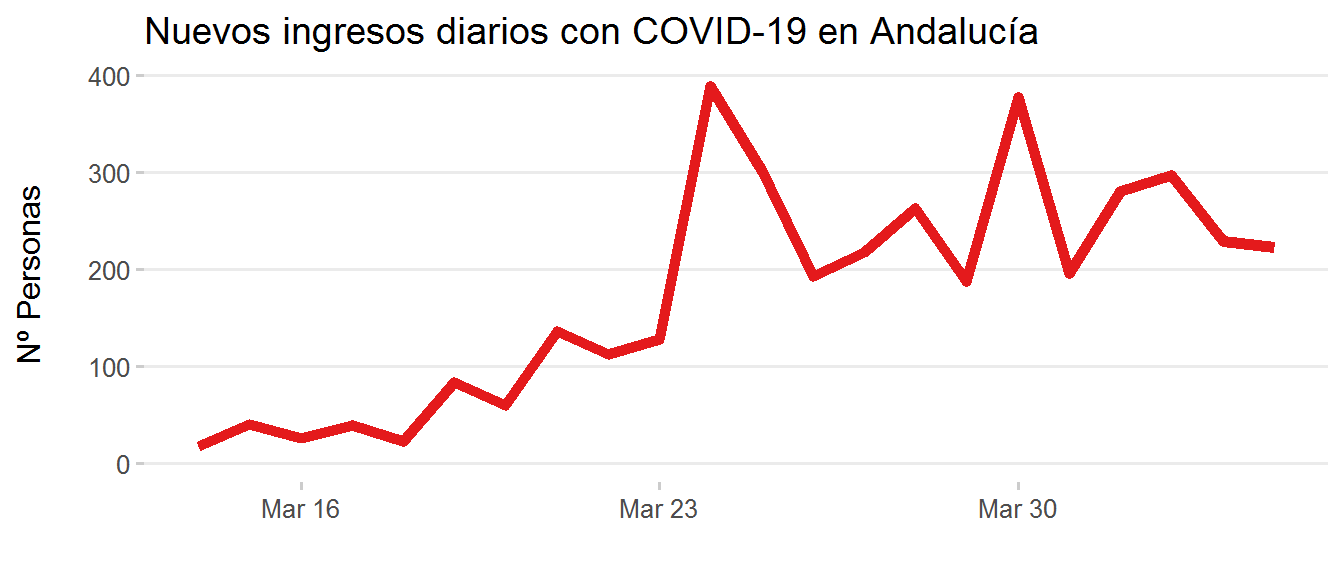
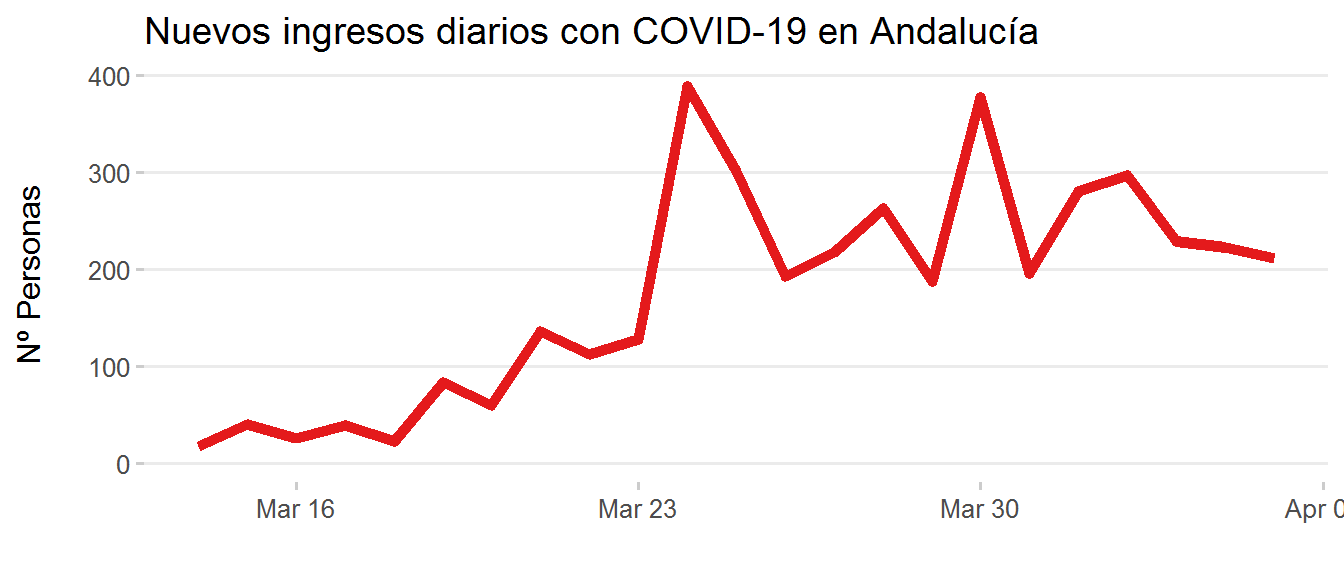
update 5 Abril

diff --git a/evolucion-coronavirus-andalucia.html b/evolucion-coronavirus-andalucia.html
@@ -194,7 +194,7 @@ summary {
 <p><br></p>
 <p>Aquí se visualiza la evolución de la enfermedad del coronavirus (COVID-19) en Andalucía, según los <a href="https://www.juntadeandalucia.es/organismos/saludyfamilias/areas/salud-vida/paginas/Nuevo_Coronavirus.html">datos oficiales ofrecidos por la Consejería de Salud y Familias</a>. A diferencia de otras visualizaciones más extendidas, que representan datos acumulados en el tiempo, aquí se enfatizan las <strong>variaciones diarias absolutas (no acumuladas)</strong> en número de casos detectados, personas ingresadas, curadas y número de fallecimientos.</p>
 <p>Los datos se actualizan diariamente. Tanto los datos como el código empleado para generar estas visualizaciones está disponible <a href="https://github.com/Pakillo/COVID19-Andalucia">aquí</a>.</p>
-<p>Última actualización: 2020-04-04</p>
+<p>Última actualización: 2020-04-05</p>
 <ul>
 <li><a href="#casos-detectados">Casos detectados</a></li>
 <li><a href="#ingresos-en-centros-hospitalarios">Ingresos en centros hospitalarios</a></li>
